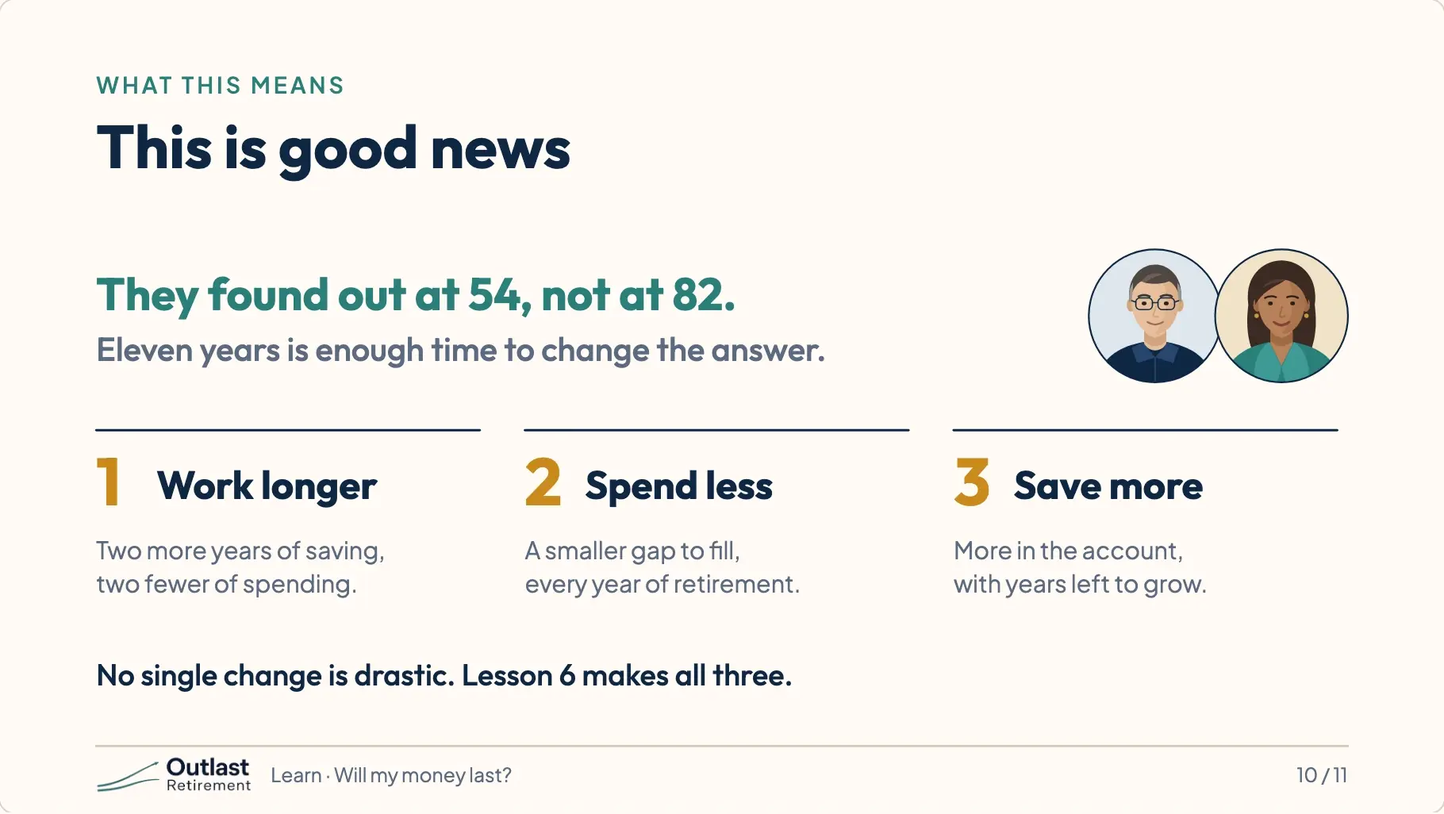
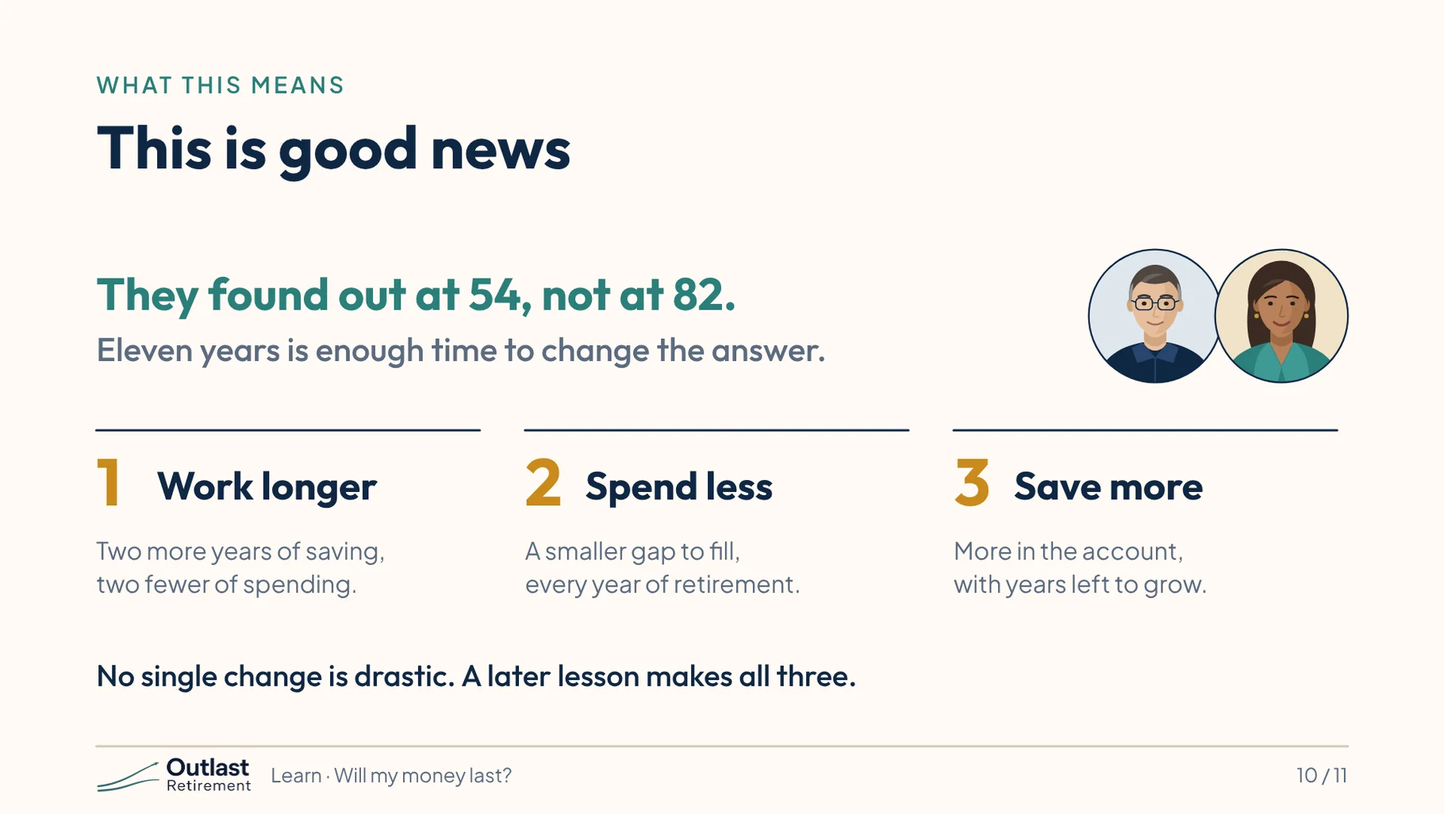
Learn: lessons no longer refer to each other by number
Exported from 5279b07b32aebfedaff4a2a167cf2670367dfcf6.

diff --git a/src/config/learnLessons.js b/src/config/learnLessons.js
@@ -58,7 +58,7 @@ export const LEARN_LESSONS = [
       { title: 'Plan: where your numbers go', alt: 'The Plan page, open on Household, with tabs for Income, Savings, Balances and Debt, and Spending.', say: 'The Plan page holds your numbers: your ages, your pay, what you have saved, and what you spend. New here? Quick Setup asks for the basics and builds a first plan in a few minutes. You can fill in the rest later.' },
       { title: 'Year by Year: the plan with nothing hidden', alt: 'The Year by Year table: one row for each year from 2026, with columns for ages, salary, Social Security and spending.', say: 'Year by Year is the plan with nothing hidden. Each row is one year of your life. It opens on a summary; press Every column to see the rest, Social Security included. You can see the paychecks, the Social Security, the spending, the taxes, and what is left at the end of the year.' },
       { title: 'Scenarios: ask “what if?”', alt: 'The Scenario Comparison Chart with six lines, one for each change Ray and Angie could make, such as working two more years or spending less.', say: 'Scenarios is where you try things. Work two more years. Spend a little less. Each idea becomes a line on the chart, so you can see which one helps most before you change anything in real life.' },
-      { title: 'Start here: three steps', alt: 'Three steps: open Ray and Angie’s plan and look around, watch lesson 1, build your own plan with Quick Setup.', say: 'That is the tour. To start, open Ray and Angie’s plan and look around. Nothing you change there is saved. Then read lesson one, will my money last. When you are ready, build your own plan. This is education, not financial advice.' },
+      { title: 'Start here: three steps', alt: 'Three steps: open Ray and Angie’s plan and look around, watch the first lesson, build your own plan with Quick Setup.', say: 'That is the tour. To start, open Ray and Angie’s plan and look around. Nothing you change there is saved. Then read the first lesson, will my money last. When you are ready, build your own plan. This is education, not financial advice.' },
     ],
   },
   {
@@ -81,7 +81,7 @@ export const LEARN_LESSONS = [
       { title: 'At 65, the paycheck stops', alt: 'A timeline from age 54 to 94, working until 65 and retired after. Planned spending: $46,000 a year.', say: 'They plan to stop working when Ray turns 65. The paychecks end. Social Security starts, but it does not cover everything. Each year, the rest comes out of their savings. They plan to live on forty-six thousand dollars a year.' },
       { title: 'The Parkers’ savings, year by year', alt: 'A line chart of the Parkers’ savings by Ray’s age: highest at 64, about $346,000, then falling to empty at 82, with fourteen planned years left, to Angie’s 94, and no savings.', say: 'Here is their balance over time. It climbs while they work and reaches about three hundred forty-six thousand dollars. Then they stop, and it starts to fall. When Ray is 82, it is empty. He and Angie could easily live another ten years.' },
       { title: 'The answer, in plain words', alt: 'The app’s Dashboard for the Parkers, with the verdict at the top right circled: Runs short.', say: 'This is the same family inside OutlastRetirement. You don’t have to read a chart to get the answer. It is written in plain words at the top: runs short. Under it, the chart shows the same story you just saw, and the year the money runs out.' },
-      { title: 'This is good news', alt: 'They found out at 54, not at 82. Three changes: work longer, spend less, save more.', say: 'That sounds like bad news. It is the opposite. Ray and Angie just found out with eleven years left to do something about it. A few changes, none of them drastic, fix their plan. We will make those changes together in lesson six.' },
+      { title: 'This is good news', alt: 'They found out at 54, not at 82. Three changes: work longer, spend less, save more.', say: 'That sounds like bad news. It is the opposite. Ray and Angie just found out with eleven years left to do something about it. A few changes, none of them drastic, fix their plan. We will make those changes together in a later lesson.' },
       { title: 'Your turn: open the Parkers’ plan', alt: 'Three steps: find the answer at the top of the page, find the year the chart reaches zero, and ask whether you know the answer for your own money.', say: 'Now you try. Open Ray and Angie’s plan with the link below. Find the answer at the top of the page. Then find the year the chart reaches zero. Nothing you click can break anything, and it is free. And ask yourself one question: do you know the answer for your own money? Next time: where the paycheck comes from when you stop working. As always, this is education, not financial advice.' },
     ],
   },
@@ -106,7 +106,7 @@ export const LEARN_LESSONS = [
       { title: 'Savings fill the gap, every year', alt: 'A bar chart of what the Parkers need each year at Ray’s ages 65, 66, 67, 70 and 75, each bar split into Social Security and savings. The need falls from $68,100 to about $55,000 at 67, when Angie reaches Medicare, and the savings part never disappears.', say: 'The gap gets filled from savings. Every year Ray and Angie are retired, they take what Social Security does not cover out of what they have saved. A big gap empties the savings fast. A small gap lets them last.' },
       { title: 'Year by Year: one row for every year', alt: 'App screenshot: the Year by Year table with Every column selected and the 2037 row highlighted, the year Ray is 65. In: $34,417. Out: $68,128. From savings: $33,711.', say: 'Here it is in OutlastRetirement. This page is called Year by Year. Every row is one year of Ray and Angie’s life. It opens on a summary, so press Every column above the table to see everything. Find the year Ray turns 65. You can see the Social Security coming in, the costs going out, and the amount taken from savings to cover the gap.' },
       { title: 'Two ways to shrink a gap', alt: 'A diagram with the gap in the middle. From one side, bring more in: work a little longer, a larger Social Security check, part-time work. From the other, spend less: a smaller budget, a paid-off house, lower health costs.', say: 'There are only two ways to shrink a gap. Bring more in, or spend less. Everything else in this course is one of those two moves.' },
-      { title: 'Open the Parkers’ Year by Year', alt: 'Three steps: press Every column, find the first year with Social Security income, read across to see how much came out of savings, and look up your own estimate at ssa.gov. Below, the link to Ray and Angie’s Year by Year page.', say: 'Your turn. Open Ray and Angie’s Year by Year page with the link below. Above the table, press Every column. Find the first year with money in the SS + Pens column. Then look across that row to Total Draw, the amount taken from savings. And for your own plan: do you know what your Social Security check will be? You can look it up for free at ssa.gov. Write the number down. You will need it in lesson four. Next time: what retirement really costs. This is education, not financial advice.' },
+      { title: 'Open the Parkers’ Year by Year', alt: 'Three steps: press Every column, find the first year with Social Security income, read across to see how much came out of savings, and look up your own estimate at ssa.gov. Below, the link to Ray and Angie’s Year by Year page.', say: 'Your turn. Open Ray and Angie’s Year by Year page with the link below. Above the table, press Every column. Find the first year with money in the SS + Pens column. Then look across that row to Total Draw, the amount taken from savings. And for your own plan: do you know what your Social Security check will be? You can look it up for free at ssa.gov. Write the number down. You will need it when you build your own plan. Next time: what retirement really costs. This is education, not financial advice.' },
     ],
   },
   {
@@ -147,13 +147,13 @@ export const LEARN_LESSONS = [
     slides: [
       { title: 'Can I build my own plan in ten minutes?', alt: 'Title slide: Can I build my own plan in ten minutes? A handful of rough numbers is enough to get your first answer.', say: 'You have watched Ray and Angie’s plan for three lessons. Now it is your turn. You need about ten minutes and a few numbers. They can be rough. As always: this is an educational walkthrough. It isn’t financial advice.' },
       { title: 'Close beats perfect', alt: 'Close beats perfect. A rough answer today is worth more than a perfect one you never get to. Every number can be changed later; round to the nearest thousand and guess where you have to.', say: 'People put this off because they think they need exact figures. You don’t. A rough answer today is worth more than a perfect one you never get around to. You can fix any number later.' },
-      { title: 'What to have ready', alt: 'A table of what to have ready and where to find it: your ages, when you would stop, what you earn (a pay stub), what you have saved (your latest statements), Social Security (your estimate at ssa.gov), and what you spend (the shortcut from lesson 3).', say: 'Here is what to have in front of you. How old you are and when you would like to stop working. What you earn. What you have saved, from your latest statements. Your Social Security estimate from ssa.gov. And what you spend, from the shortcut in lesson three.' },
+      { title: 'What to have ready', alt: 'A table of what to have ready and where to find it: your ages, when you would stop, what you earn (a pay stub), what you have saved (your latest statements), Social Security (your estimate at ssa.gov), and what you spend (the shortcut from the last lesson).', say: 'Here is what to have in front of you. How old you are and when you would like to stop working. What you earn. What you have saved, from your latest statements. Your Social Security estimate from ssa.gov. And what you spend, from the shortcut in the last lesson.' },
       { title: 'Your numbers never leave your device', alt: 'Your numbers never leave your device. Three points: it runs in your browser, there is no account, and you keep the backup. You can check it yourself at outlastretirement.com/verify.', say: 'One thing before you type anything. OutlastRetirement runs inside your own browser. There is no account to create. Your numbers never leave your device. That also means you are the one who keeps the backup, and the app will remind you.' },
       { title: 'Open the app and choose how to start', alt: 'App screenshot: the welcome screen with two choices, Answer six short questions and See a sample family first. Steps: accept the short notice, then choose Answer six short questions.', say: 'Open the app. The first time, it shows a short notice to accept, then asks how you would like to start. Choose Answer six short questions.' },
       { title: 'Tell us about yourself', alt: 'App screenshot of step 1, Tell us about yourself. It asks for your name (optional), the year you were born, the age you would like to stop working, your state, and whether you are planning with a spouse or partner.', say: 'Step one is about you. Your birth year, the age you would like to stop working, the state you live in, and whether you are planning with a spouse or partner.' },
       { title: 'Your pay and Social Security', alt: 'App screenshot of step 2, Your pay and Social Security. It asks what you earn in a year before taxes, your yearly Social Security figure, and a pension if you have one. With no statement yet, click Use the estimate.', say: 'Step two is money coming in. What you earn today, and the Social Security estimate you looked up. If you don’t have it yet, use the estimate the app offers and come back.' },
       { title: 'What you have saved', alt: 'App screenshot of step 3, What you have saved. Three boxes: Pre-Tax, for a 401(k) or traditional IRA; Roth; and Taxable, for brokerage accounts, savings and cash. If unsure, put the total in the first box.', say: 'Step three is your savings. Add up your retirement accounts at work, any IRAs, and other savings or investments. The app asks for them by type because they are taxed differently. If you are not sure which is which, put the total in the first box for now.' },
-      { title: 'Spending, then saving', alt: 'App screenshots of steps 4 and 5. Step 4, What you will spend in retirement: a year’s spending, in today’s dollars. Step 5, What you save each year: and any employer match. Skip the extra options for now.', say: 'Step four is what you plan to spend each year in retirement. Use the number from lesson three and trim what will stop. Step five is how much you add to savings each year, and anything your employer adds. Both steps show extra options. You can skip those for now.' },
+      { title: 'Spending, then saving', alt: 'App screenshots of steps 4 and 5. Step 4, What you will spend in retirement: a year’s spending, in today’s dollars. Step 5, What you save each year: and any employer match. Skip the extra options for now.', say: 'Step four is what you plan to spend each year in retirement. Use the number from the last lesson and trim what will stop. Step five is how much you add to savings each year, and anything your employer adds. Both steps show extra options. You can skip those for now.' },
       { title: 'What we assumed, then your answer', alt: 'App screenshot of step 6, What we assumed for you, then the Generate My Plan button. Your first answer appears at the top of the page.', say: 'The last step lists what the app assumed for you, such as your employer match and your health costs. You can change any of them later. Then click Generate My Plan. The app runs your whole life, year by year, the same way it did for Ray and Angie. At the top is your answer. Whatever it says, you now know something most people never find out.' },
       { title: 'Build it. Then back it up.', alt: 'Three steps: open the app and choose Answer six short questions, enter your own rough numbers, and click Backup Everything in the left sidebar. A picture shows where the Backup Everything button is.', say: 'Your turn, for real this time. Open the app and build your plan. When you finish, click Backup Everything and keep the file somewhere safe. It is the only copy. If the answer worries you, don’t change anything yet. Next lesson, we learn to read it properly. Then we fix it. This is education, not financial advice.' },
     ],
@@ -224,11 +224,11 @@ export const LEARN_LESSONS = [
     // The deck is lesson7.html in the business repo's LEARN/decks; every
     // figure is the app's for the two plan scenarios (demoPlanParkers.test.js).
     slides: [
-      { title: 'What are you planning for?', alt: 'Title slide: “Will my money last?” leads by an arrow to “It depends on what you’re planning for.” The answer is not a formula; it starts with what matters most to you. With portraits of Ray, 54, and Angie, 52.', say: 'In Lesson 1 we asked one question: will my money last? By now you’ve seen that the answer depends on something only you can decide, which is what you’re actually planning for. As always: this is an educational walkthrough using a fictional family. It isn’t financial advice.' },
-      { title: 'What we’ve covered', alt: 'What we’ve covered in the first six lessons: will the money last (lessons 1 to 3: the answer, the gap and what retirement costs); build it and read it (lessons 4 and 5); and three levers (lesson 6: work longer, spend less, save more). Every lever moves something. So which ones should you pull?', say: 'Over the last six lessons, you asked whether the money lasts, found the gap, and saw what retirement costs. You built a plan of your own and learned to read its answer. And in lesson six, three levers fixed Ray and Angie’s plan: work longer, spend less, save more. Every lever moves something. So which ones should you pull?' },
+      { title: 'What are you planning for?', alt: 'Title slide: “Will my money last?” leads by an arrow to “It depends on what you’re planning for.” The answer is not a formula; it starts with what matters most to you. With portraits of Ray, 54, and Angie, 52.', say: 'In the first lesson we asked one question: will my money last? By now you’ve seen that the answer depends on something only you can decide, which is what you’re actually planning for. As always: this is an educational walkthrough using a fictional family. It isn’t financial advice.' },
+      { title: 'What we’ve covered', alt: 'What we’ve covered in the Start Here lessons: will the money last (the answer, the gap and what retirement costs); build it and read it; and three levers (work longer, spend less, save more). Every lever moves something. So which ones should you pull?', say: 'So far, you asked whether the money lasts, found the gap, and saw what retirement costs. You built a plan of your own and learned to read its answer. And then three levers fixed Ray and Angie’s plan: work longer, spend less, save more. Every lever moves something. So which ones should you pull?' },
       { title: 'Three questions', alt: 'Three questions in three boxes: 1, maximize, what outcome am I trying to maximize, such as lifestyle, legacy or early retirement; 2, protect, what outcome am I unwilling to risk, such as running out of cash or large medical bills; 3, trade off, what am I willing to give up to protect it, such as working longer or trimming expenses.', say: 'It comes down to three questions. First, what outcome are you trying to maximize? Second, what outcome are you unwilling to risk? And third, what are you willing to give up to protect it? Your answers shape your plan more than any formula.' },
       { title: 'Same household, different answers', alt: 'Ray’s and Angie’s answers side by side. Maximize: Ray, keep spending what we spend now; Angie, leave the house to the kids. Unwilling to risk: Ray, running out in our 80s; Angie, a care bill wiping us out. Willing to give up: Ray, work two more years; Angie, trim travel, not the house.', say: 'Ray and Angie answered separately. Ray wants to keep their lifestyle. Angie wants to leave the house to the kids. Ray’s biggest fear is running out in their eighties. Angie’s is a care bill that wipes them out. And what they’d give up is different too. Ray would work two more years. Angie would trim travel but keep the house.' },
-      { title: 'Two scenarios: Ray’s plan and Angie’s plan', alt: 'Two scenario cards. Ray’s plan: priority, the current lifestyle of $46,000 a year; biggest risk, running out of cash in his 80s; lever, both work two more years, Ray to 67 and Angie to 65, with spending kept and $500 a month more saved. Angie’s plan: priority, protect the home and a legacy for the kids; biggest risk, long-term care wiping out savings; lever, trim travel by $750 a month, with Ray still stopping at 65 and $500 a month more saved.', say: 'So they saved each set of answers as its own scenario. Same savings, same house, two plans. In Ray’s plan, they both work two more years and keep spending what they spend now. In Angie’s, they stop on time and spend seven hundred fifty dollars a month less, mostly on travel. Both start saving five hundred dollars a month more, the lever from lesson six. For the first several years the two paths look the same, then they drift apart. That gives them time to decide.' },
+      { title: 'Two scenarios: Ray’s plan and Angie’s plan', alt: 'Two scenario cards. Ray’s plan: priority, the current lifestyle of $46,000 a year; biggest risk, running out of cash in his 80s; lever, both work two more years, Ray to 67 and Angie to 65, with spending kept and $500 a month more saved. Angie’s plan: priority, protect the home and a legacy for the kids; biggest risk, long-term care wiping out savings; lever, trim travel by $750 a month, with Ray still stopping at 65 and $500 a month more saved.', say: 'So they saved each set of answers as its own scenario. Same savings, same house, two plans. In Ray’s plan, they both work two more years and keep spending what they spend now. In Angie’s, they stop on time and spend seven hundred fifty dollars a month less, mostly on travel. Both start saving five hundred dollars a month more, one of the three levers that fixed their plan. For the first several years the two paths look the same, then they drift apart. That gives them time to decide.' },
       { title: 'Neither plan is wrong', alt: 'Neither plan is wrong: the app doesn’t pick one for you. You decide what matters most and the app shows the cost and the reward. Tradeoffs, not formulas; your household’s values; private on your device.', say: 'Neither plan is wrong. OutlastRetirement shows you the tradeoff each answer makes. It doesn’t pick one for you. This is education, not financial advice.' },
       { title: 'Your turn: three steps for your plan', alt: 'Three steps: open your plan or Ray and Angie’s demo; enter your three answers, what to maximize, what to protect and what to give up; save scenarios and compare two or three side by side. Below, the link to Ray and Angie’s Scenarios page.', say: 'Now it’s your turn. Open your plan. Enter your own three answers in the app. And save it as a scenario, or a few, to compare. Your plan data and calculations stay on your device. Your answers, your plan. This is education, not financial advice.' },
     ],
@@ -254,8 +254,8 @@ export const LEARN_LESSONS = [
       { title: 'Three milestone ages', alt: 'Three boxes for anyone born in 1960 or later. 62, the earliest age: 70% of your earned benefit, a permanent 30% cut. 67, full retirement age: 100%, the benchmark. 70, the most: 124%, 8% more for each year you wait. Waiting from 62 to 70 makes the monthly check over 77% larger.', say: 'For anyone born in 1960 or later, full retirement age is sixty-seven. That is when you receive one hundred percent of the benefit you earned. If you start at sixty-two, your checks are permanently cut by thirty percent. But if you wait until seventy, your check grows by eight percent every year you delay. At seventy, that is twenty-four percent more, every month, for life.' },
       { title: 'Ray and Angie’s earned benefits', alt: 'Two tables. Ray, $25,000 a year at 67: claim at 62, $17,500 a year ($1,458 a month); at 67, $25,000 ($2,083 a month); at 70, $31,000 ($2,583 a month); a difference of $13,500 a year for life. Angie, $17,000 at 67: at 62, $11,900 ($992 a month); at 67, $17,000 ($1,417 a month); at 70, $21,080 ($1,757 a month). Together at 67, $42,000 a year.', say: 'Here are Ray and Angie’s numbers at sixty-seven. Ray’s full benefit is twenty-five thousand dollars a year. Angie’s is seventeen thousand. If Ray starts at sixty-two, his check drops to seventeen thousand five hundred. If he waits until seventy, it grows to thirty-one thousand dollars a year. That is a thirteen thousand five hundred dollar difference, every year, adjusted for inflation.' },
       { title: 'Stop working at 62 instead', alt: 'The saved scenario “Stop working at 62 instead”: runs short when Ray is 67, after only five years of retirement. Why: permanently smaller checks, Ray $17,500 instead of $25,000 and Angie $11,900 instead of $17,000, $12,600 a year less for life; and three more years of living on savings, with no more 401(k) contributions and three years left on the $914-a-month mortgage.', say: 'In their plan, what happens if they stop working and claim at sixty-two? The app shows the result instantly. With smaller checks and three fewer years to save, their retirement savings run out when Ray is just sixty-seven. Claiming early to get money sooner can leave you with the smallest check right when you need it most.' },
-      { title: 'Three levers brought them close', alt: 'Recap of lesson 6. All three levers together: Mostly on track, holding in 84 of 100 simulated futures. Work two more years, Ray to 67 and Angie to 65: twelve more years of savings. Spend $500 a month less, $40,000 a year instead of $46,000: seven more years. Save $500 a month more, $6,000 a year: seven more years. How can they get from Mostly on track to On track?', say: 'In lesson six, three levers turned Ray and Angie’s plan around: working two more years each, Ray to sixty-seven and Angie to sixty-five, saving five hundred dollars more a month, and spending five hundred less. That brought them to mostly on track, holding in eighty-four out of one hundred market futures. But they wanted to know: how do we reach on track?' },
-      { title: 'All three, and wait longer for Social Security', alt: 'The saved scenario “All three, and wait longer for Social Security”: On track, holding in 94 of 100 simulated futures. All three levers from lesson 6, Mostly on track (84%) on their own, plus later claims: Angie claims at 67, $17,000 a year, and Ray waits to 70, $31,000 a year. From 70, $48,000 a year together, for life.', say: 'The answer combines all three levers from lesson six, working two more years each, Ray to sixty-seven and Angie to sixty-five, spending five hundred less, and saving five hundred more, with delayed Social Security. Angie claims her full benefit at sixty-seven, and Ray waits until seventy. Because Ray is the higher earner, his check jumps to thirty-one thousand dollars. That extra income pushes their plan all the way to on track, holding in ninety-four out of one hundred simulated futures.' },
+      { title: 'Three levers brought them close', alt: 'Recap of the three levers. All three levers together: Mostly on track, holding in 84 of 100 simulated futures. Work two more years, Ray to 67 and Angie to 65: twelve more years of savings. Spend $500 a month less, $40,000 a year instead of $46,000: seven more years. Save $500 a month more, $6,000 a year: seven more years. How can they get from Mostly on track to On track?', say: 'Earlier, three levers turned Ray and Angie’s plan around: working two more years each, Ray to sixty-seven and Angie to sixty-five, saving five hundred dollars more a month, and spending five hundred less. That brought them to mostly on track, holding in eighty-four out of one hundred market futures. But they wanted to know: how do we reach on track?' },
+      { title: 'All three, and wait longer for Social Security', alt: 'The saved scenario “All three, and wait longer for Social Security”: On track, holding in 94 of 100 simulated futures. All three levers, Mostly on track (84%) on their own, plus later claims: Angie claims at 67, $17,000 a year, and Ray waits to 70, $31,000 a year. From 70, $48,000 a year together, for life.', say: 'The answer combines all three levers, working two more years each, Ray to sixty-seven and Angie to sixty-five, spending five hundred less, and saving five hundred more, with delayed Social Security. Angie claims her full benefit at sixty-seven, and Ray waits until seventy. Because Ray is the higher earner, his check jumps to thirty-one thousand dollars. That extra income pushes their plan all the way to on track, holding in ninety-four out of one hundred simulated futures.' },
       { title: 'Why waiting acts like longevity insurance', alt: 'Three boxes. Paid for life: unlike investments, Social Security keeps paying as long as you live. Inflation-adjusted: checks rise with the cost of living every year, and a larger check rises by more dollars. Survivor protection: when one spouse dies, the survivor receives the larger of the two checks. Delaying the higher earner’s check is one of the strongest protections against a long life.', say: 'Why does waiting work so well? Social Security is retirement income that is paid for life, adjusted for inflation every year, and backed by federal law. And when one spouse passes away, the surviving spouse keeps the larger check. Delaying the higher earner’s benefit protects both of you into your eighties and nineties.' },
       { title: 'Your turn: test your claiming ages', alt: 'Three steps: find your full retirement age and estimate at ssa.gov; open Ray and Angie’s Scenarios or your own plan; change the claiming age in the number box on the Plan page and watch your benefit and verdict update. Your plan stays private on your device. Education, not advice.', say: 'Now it is your turn. Log into Social Security’s website to find your full retirement age estimate. Then open your plan, or Ray and Angie’s demo, and change claiming age in the number box on the Plan page. See how much your check grows, and watch how it moves your verdict. Your plan data stays private on your device. This is education, not financial advice.' },
     ],

diff --git a/public/learn/three-questions.html b/public/learn/three-questions.html
@@ -177,13 +177,13 @@
       <section class="slide" id="slide-1">
         <h2><span class="num">1.</span>What are you planning for?</h2>
         <img src="/learn/img/three-questions/01.webp" srcset="/learn/img/three-questions/01-800.webp 800w, /learn/img/three-questions/01.webp 1600w" sizes="(max-width: 908px) 100vw, 860px" width="1600" height="900" loading="eager" decoding="async" alt="Title slide: “Will my money last?” leads by an arrow to “It depends on what you’re planning for.” The answer is not a formula; it starts with what matters most to you. With portraits of Ray, 54, and Angie, 52." />
-        <p>In Lesson 1 we asked one question: will my money last? By now you’ve seen that the answer depends on something only you can decide, which is what you’re actually planning for. As always: this is an educational walkthrough using a fictional family. It isn’t financial advice.</p>
+        <p>In the first lesson we asked one question: will my money last? By now you’ve seen that the answer depends on something only you can decide, which is what you’re actually planning for. As always: this is an educational walkthrough using a fictional family. It isn’t financial advice.</p>
       </section>
 
       <section class="slide" id="slide-2">
         <h2><span class="num">2.</span>What we’ve covered</h2>
-        <img src="/learn/img/three-questions/02.webp" srcset="/learn/img/three-questions/02-800.webp 800w, /learn/img/three-questions/02.webp 1600w" sizes="(max-width: 908px) 100vw, 860px" width="1600" height="900" loading="lazy" decoding="async" alt="What we’ve covered in the first six lessons: will the money last (lessons 1 to 3: the answer, the gap and what retirement costs); build it and read it (lessons 4 and 5); and three levers (lesson 6: work longer, spend less, save more). Every lever moves something. So which ones should you pull?" />
-        <p>Over the last six lessons, you asked whether the money lasts, found the gap, and saw what retirement costs. You built a plan of your own and learned to read its answer. And in lesson six, three levers fixed Ray and Angie’s plan: work longer, spend less, save more. Every lever moves something. So which ones should you pull?</p>
+        <img src="/learn/img/three-questions/02.webp" srcset="/learn/img/three-questions/02-800.webp 800w, /learn/img/three-questions/02.webp 1600w" sizes="(max-width: 908px) 100vw, 860px" width="1600" height="900" loading="lazy" decoding="async" alt="What we’ve covered in the Start Here lessons: will the money last (the answer, the gap and what retirement costs); build it and read it; and three levers (work longer, spend less, save more). Every lever moves something. So which ones should you pull?" />
+        <p>So far, you asked whether the money lasts, found the gap, and saw what retirement costs. You built a plan of your own and learned to read its answer. And then three levers fixed Ray and Angie’s plan: work longer, spend less, save more. Every lever moves something. So which ones should you pull?</p>
       </section>
 
       <section class="slide" id="slide-3">
@@ -201,7 +201,7 @@
       <section class="slide" id="slide-5">
         <h2><span class="num">5.</span>Two scenarios: Ray’s plan and Angie’s plan</h2>
         <img src="/learn/img/three-questions/05.webp" srcset="/learn/img/three-questions/05-800.webp 800w, /learn/img/three-questions/05.webp 1600w" sizes="(max-width: 908px) 100vw, 860px" width="1600" height="900" loading="lazy" decoding="async" alt="Two scenario cards. Ray’s plan: priority, the current lifestyle of $46,000 a year; biggest risk, running out of cash in his 80s; lever, both work two more years, Ray to 67 and Angie to 65, with spending kept and $500 a month more saved. Angie’s plan: priority, protect the home and a legacy for the kids; biggest risk, long-term care wiping out savings; lever, trim travel by $750 a month, with Ray still stopping at 65 and $500 a month more saved." />
-        <p>So they saved each set of answers as its own scenario. Same savings, same house, two plans. In Ray’s plan, they both work two more years and keep spending what they spend now. In Angie’s, they stop on time and spend seven hundred fifty dollars a month less, mostly on travel. Both start saving five hundred dollars a month more, the lever from lesson six. For the first several years the two paths look the same, then they drift apart. That gives them time to decide.</p>
+        <p>So they saved each set of answers as its own scenario. Same savings, same house, two plans. In Ray’s plan, they both work two more years and keep spending what they spend now. In Angie’s, they stop on time and spend seven hundred fifty dollars a month less, mostly on travel. Both start saving five hundred dollars a month more, one of the three levers that fixed their plan. For the first several years the two paths look the same, then they drift apart. That gives them time to decide.</p>
       </section>
 
       <section class="slide" id="slide-6">

diff --git a/public/learn/start-social-security.html b/public/learn/start-social-security.html
@@ -200,14 +200,14 @@
 
       <section class="slide" id="slide-5">
         <h2><span class="num">5.</span>Three levers brought them close</h2>
-        <img src="/learn/img/start-social-security/05.webp" srcset="/learn/img/start-social-security/05-800.webp 800w, /learn/img/start-social-security/05.webp 1600w" sizes="(max-width: 908px) 100vw, 860px" width="1600" height="900" loading="lazy" decoding="async" alt="Recap of lesson 6. All three levers together: Mostly on track, holding in 84 of 100 simulated futures. Work two more years, Ray to 67 and Angie to 65: twelve more years of savings. Spend $500 a month less, $40,000 a year instead of $46,000: seven more years. Save $500 a month more, $6,000 a year: seven more years. How can they get from Mostly on track to On track?" />
-        <p>In lesson six, three levers turned Ray and Angie’s plan around: working two more years each, Ray to sixty-seven and Angie to sixty-five, saving five hundred dollars more a month, and spending five hundred less. That brought them to mostly on track, holding in eighty-four out of one hundred market futures. But they wanted to know: how do we reach on track?</p>
+        <img src="/learn/img/start-social-security/05.webp" srcset="/learn/img/start-social-security/05-800.webp 800w, /learn/img/start-social-security/05.webp 1600w" sizes="(max-width: 908px) 100vw, 860px" width="1600" height="900" loading="lazy" decoding="async" alt="Recap of the three levers. All three levers together: Mostly on track, holding in 84 of 100 simulated futures. Work two more years, Ray to 67 and Angie to 65: twelve more years of savings. Spend $500 a month less, $40,000 a year instead of $46,000: seven more years. Save $500 a month more, $6,000 a year: seven more years. How can they get from Mostly on track to On track?" />
+        <p>Earlier, three levers turned Ray and Angie’s plan around: working two more years each, Ray to sixty-seven and Angie to sixty-five, saving five hundred dollars more a month, and spending five hundred less. That brought them to mostly on track, holding in eighty-four out of one hundred market futures. But they wanted to know: how do we reach on track?</p>
       </section>
 
       <section class="slide" id="slide-6">
         <h2><span class="num">6.</span>All three, and wait longer for Social Security</h2>
-        <img src="/learn/img/start-social-security/06.webp" srcset="/learn/img/start-social-security/06-800.webp 800w, /learn/img/start-social-security/06.webp 1600w" sizes="(max-width: 908px) 100vw, 860px" width="1600" height="900" loading="lazy" decoding="async" alt="The saved scenario “All three, and wait longer for Social Security”: On track, holding in 94 of 100 simulated futures. All three levers from lesson 6, Mostly on track (84%) on their own, plus later claims: Angie claims at 67, $17,000 a year, and Ray waits to 70, $31,000 a year. From 70, $48,000 a year together, for life." />
-        <p>The answer combines all three levers from lesson six, working two more years each, Ray to sixty-seven and Angie to sixty-five, spending five hundred less, and saving five hundred more, with delayed Social Security. Angie claims her full benefit at sixty-seven, and Ray waits until seventy. Because Ray is the higher earner, his check jumps to thirty-one thousand dollars. That extra income pushes their plan all the way to on track, holding in ninety-four out of one hundred simulated futures.</p>
+        <img src="/learn/img/start-social-security/06.webp" srcset="/learn/img/start-social-security/06-800.webp 800w, /learn/img/start-social-security/06.webp 1600w" sizes="(max-width: 908px) 100vw, 860px" width="1600" height="900" loading="lazy" decoding="async" alt="The saved scenario “All three, and wait longer for Social Security”: On track, holding in 94 of 100 simulated futures. All three levers, Mostly on track (84%) on their own, plus later claims: Angie claims at 67, $17,000 a year, and Ray waits to 70, $31,000 a year. From 70, $48,000 a year together, for life." />
+        <p>The answer combines all three levers, working two more years each, Ray to sixty-seven and Angie to sixty-five, spending five hundred less, and saving five hundred more, with delayed Social Security. Angie claims her full benefit at sixty-seven, and Ray waits until seventy. Because Ray is the higher earner, his check jumps to thirty-one thousand dollars. That extra income pushes their plan all the way to on track, holding in ninety-four out of one hundred simulated futures.</p>
       </section>
 
       <section class="slide" id="slide-7">

diff --git a/public/learn/build-my-own-plan.html b/public/learn/build-my-own-plan.html
@@ -188,8 +188,8 @@
 
       <section class="slide" id="slide-3">
         <h2><span class="num">3.</span>What to have ready</h2>
-        <img src="/learn/img/build-my-own-plan/03.webp" srcset="/learn/img/build-my-own-plan/03-800.webp 800w, /learn/img/build-my-own-plan/03.webp 1600w" sizes="(max-width: 908px) 100vw, 860px" width="1600" height="900" loading="lazy" decoding="async" alt="A table of what to have ready and where to find it: your ages, when you would stop, what you earn (a pay stub), what you have saved (your latest statements), Social Security (your estimate at ssa.gov), and what you spend (the shortcut from lesson 3)." />
-        <p>Here is what to have in front of you. How old you are and when you would like to stop working. What you earn. What you have saved, from your latest statements. Your Social Security estimate from ssa.gov. And what you spend, from the shortcut in lesson three.</p>
+        <img src="/learn/img/build-my-own-plan/03.webp" srcset="/learn/img/build-my-own-plan/03-800.webp 800w, /learn/img/build-my-own-plan/03.webp 1600w" sizes="(max-width: 908px) 100vw, 860px" width="1600" height="900" loading="lazy" decoding="async" alt="A table of what to have ready and where to find it: your ages, when you would stop, what you earn (a pay stub), what you have saved (your latest statements), Social Security (your estimate at ssa.gov), and what you spend (the shortcut from the last lesson)." />
+        <p>Here is what to have in front of you. How old you are and when you would like to stop working. What you earn. What you have saved, from your latest statements. Your Social Security estimate from ssa.gov. And what you spend, from the shortcut in the last lesson.</p>
       </section>
 
       <section class="slide" id="slide-4">
@@ -225,7 +225,7 @@
       <section class="slide" id="slide-9">
         <h2><span class="num">9.</span>Spending, then saving</h2>
         <img src="/learn/img/build-my-own-plan/09.webp" srcset="/learn/img/build-my-own-plan/09-800.webp 800w, /learn/img/build-my-own-plan/09.webp 1600w" sizes="(max-width: 908px) 100vw, 860px" width="1600" height="900" loading="lazy" decoding="async" alt="App screenshots of steps 4 and 5. Step 4, What you will spend in retirement: a year’s spending, in today’s dollars. Step 5, What you save each year: and any employer match. Skip the extra options for now." />
-        <p>Step four is what you plan to spend each year in retirement. Use the number from lesson three and trim what will stop. Step five is how much you add to savings each year, and anything your employer adds. Both steps show extra options. You can skip those for now.</p>
+        <p>Step four is what you plan to spend each year in retirement. Use the number from the last lesson and trim what will stop. Step five is how much you add to savings each year, and anything your employer adds. Both steps show extra options. You can skip those for now.</p>
       </section>
 
       <section class="slide" id="slide-10">

diff --git a/public/learn/who-pays-me-when-i-stop-working.html b/public/learn/who-pays-me-when-i-stop-working.html
@@ -231,7 +231,7 @@
       <section class="slide" id="slide-10">
         <h2><span class="num">10.</span>Open the Parkers’ Year by Year</h2>
         <img src="/learn/img/who-pays-me-when-i-stop-working/10.webp" srcset="/learn/img/who-pays-me-when-i-stop-working/10-800.webp 800w, /learn/img/who-pays-me-when-i-stop-working/10.webp 1600w" sizes="(max-width: 908px) 100vw, 860px" width="1600" height="900" loading="lazy" decoding="async" alt="Three steps: press Every column, find the first year with Social Security income, read across to see how much came out of savings, and look up your own estimate at ssa.gov. Below, the link to Ray and Angie’s Year by Year page." />
-        <p>Your turn. Open Ray and Angie’s Year by Year page with the link below. Above the table, press Every column. Find the first year with money in the SS + Pens column. Then look across that row to Total Draw, the amount taken from savings. And for your own plan: do you know what your Social Security check will be? You can look it up for free at ssa.gov. Write the number down. You will need it in lesson four. Next time: what retirement really costs. This is education, not financial advice.</p>
+        <p>Your turn. Open Ray and Angie’s Year by Year page with the link below. Above the table, press Every column. Find the first year with money in the SS + Pens column. Then look across that row to Total Draw, the amount taken from savings. And for your own plan: do you know what your Social Security check will be? You can look it up for free at ssa.gov. Write the number down. You will need it when you build your own plan. Next time: what retirement really costs. This is education, not financial advice.</p>
       </section>
 
       <section class="try">

diff --git a/public/learn/site-tour.html b/public/learn/site-tour.html
@@ -218,8 +218,8 @@
 
       <section class="slide" id="slide-8">
         <h2><span class="num">8.</span>Start here: three steps</h2>
-        <img src="/learn/img/site-tour/08.webp" srcset="/learn/img/site-tour/08-800.webp 800w, /learn/img/site-tour/08.webp 1600w" sizes="(max-width: 908px) 100vw, 860px" width="1600" height="900" loading="lazy" decoding="async" alt="Three steps: open Ray and Angie’s plan and look around, watch lesson 1, build your own plan with Quick Setup." />
-        <p>That is the tour. To start, open Ray and Angie’s plan and look around. Nothing you change there is saved. Then read lesson one, will my money last. When you are ready, build your own plan. This is education, not financial advice.</p>
+        <img src="/learn/img/site-tour/08.webp" srcset="/learn/img/site-tour/08-800.webp 800w, /learn/img/site-tour/08.webp 1600w" sizes="(max-width: 908px) 100vw, 860px" width="1600" height="900" loading="lazy" decoding="async" alt="Three steps: open Ray and Angie’s plan and look around, watch the first lesson, build your own plan with Quick Setup." />
+        <p>That is the tour. To start, open Ray and Angie’s plan and look around. Nothing you change there is saved. Then read the first lesson, will my money last. When you are ready, build your own plan. This is education, not financial advice.</p>
       </section>
 
       <section class="try">

diff --git a/public/learn/will-my-money-last.html b/public/learn/will-my-money-last.html
@@ -231,7 +231,7 @@
       <section class="slide" id="slide-10">
         <h2><span class="num">10.</span>This is good news</h2>
         <img src="/learn/img/will-my-money-last/10.webp" srcset="/learn/img/will-my-money-last/10-800.webp 800w, /learn/img/will-my-money-last/10.webp 1600w" sizes="(max-width: 908px) 100vw, 860px" width="1600" height="900" loading="lazy" decoding="async" alt="They found out at 54, not at 82. Three changes: work longer, spend less, save more." />
-        <p>That sounds like bad news. It is the opposite. Ray and Angie just found out with eleven years left to do something about it. A few changes, none of them drastic, fix their plan. We will make those changes together in lesson six.</p>
+        <p>That sounds like bad news. It is the opposite. Ray and Angie just found out with eleven years left to do something about it. A few changes, none of them drastic, fix their plan. We will make those changes together in a later lesson.</p>
       </section>
 
       <section class="slide" id="slide-11">
